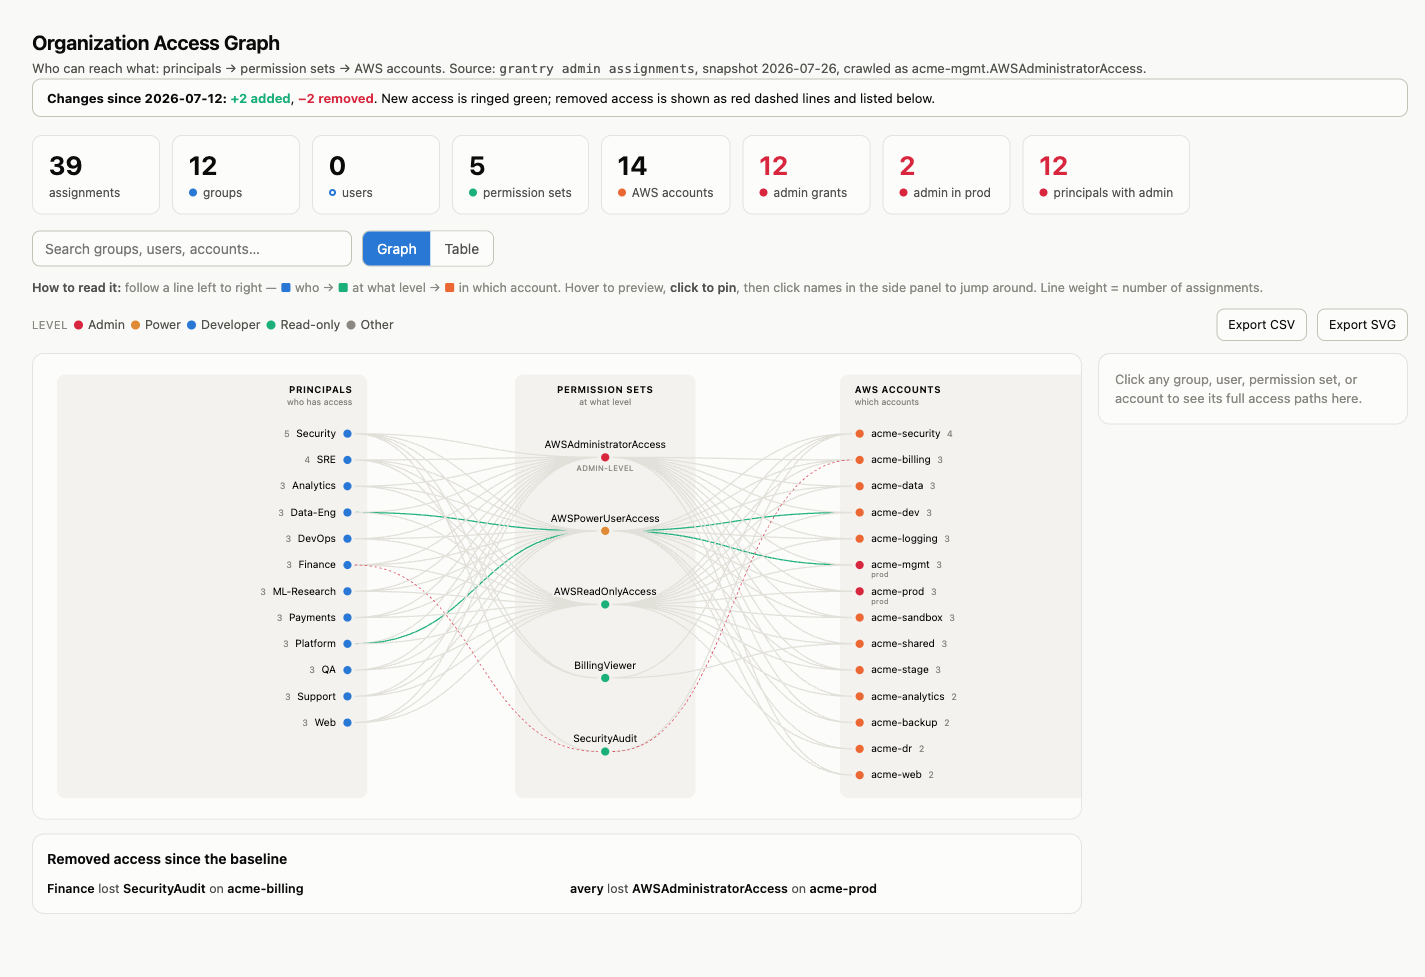
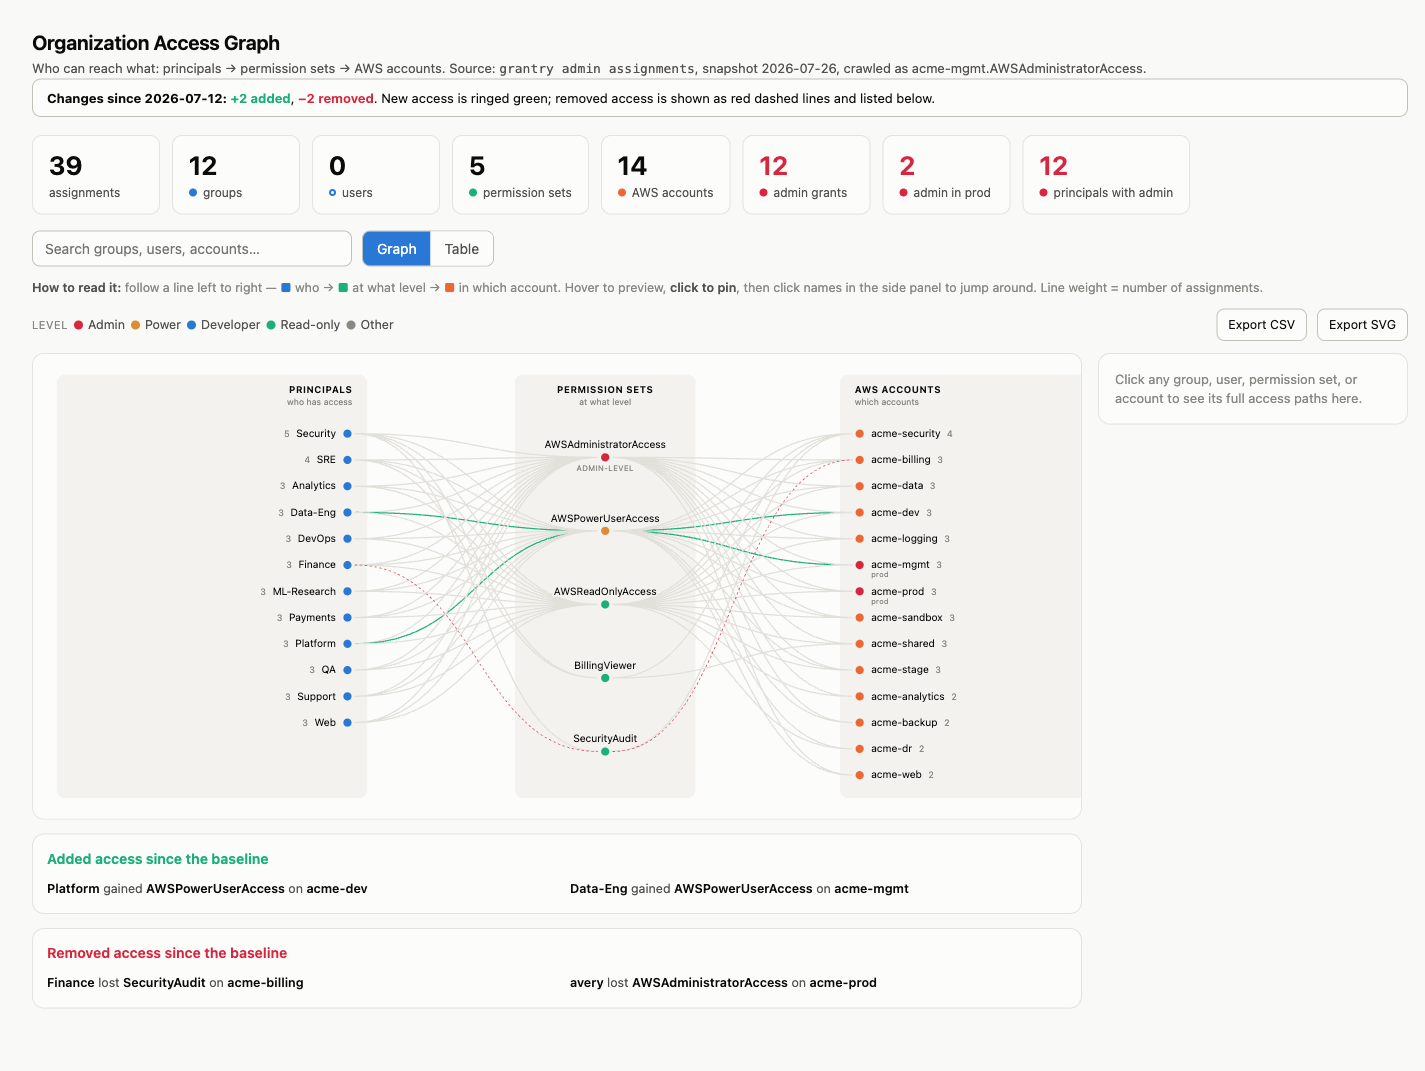
fix: list every added assignment in the access-graph diff
The graph can only ring a wholly-new principal/permission-set/account green, so
a new grant that lands on nodes that already existed was counted in the banner
but shown nowhere. Add an 'Added access' list mirroring 'Removed access', so no
change is missed. Add a CLI test that renders admin assignments --visualize
--diff end to end and asserts the added tag, removed list, and new baseline.

diff --git a/src/grantry/assignments_graph_template.html b/src/grantry/assignments_graph_template.html
@@ -193,11 +193,13 @@
     background: var(--surface-1); border: 1px solid var(--baseline); font-size: 13px; color: var(--ink-1); }
   #diffbanner .add { color: #1baf7a; font-weight: 650; }
   #diffbanner .rem { color: #d7263d; font-weight: 650; }
-  #removedcard { display: none; margin-top: 14px; }
-  #removedcard h2 { font-size: 14px; font-weight: 650; margin: 0 0 8px; }
-  #removedcard ul { list-style: none; padding: 0; margin: 0; columns: 2; column-gap: 26px; }
-  #removedcard li { font-size: 12.5px; padding: 2px 0; color: var(--ink-2); break-inside: avoid; overflow-wrap: anywhere; }
-  #removedcard li b { color: var(--ink-1); font-weight: 600; }
+  .diffcard { display: none; margin-top: 14px; }
+  .diffcard h2 { font-size: 14px; font-weight: 650; margin: 0 0 8px; }
+  .diffcard ul { list-style: none; padding: 0; margin: 0; columns: 2; column-gap: 26px; }
+  .diffcard li { font-size: 12.5px; padding: 2px 0; color: var(--ink-2); break-inside: avoid; overflow-wrap: anywhere; }
+  .diffcard li b { color: var(--ink-1); font-weight: 600; }
+  .diffcard.added h2 { color: #1baf7a; }
+  .diffcard.removed h2 { color: #d7263d; }
 
   /* --- enhancement toolbar: filters, export, theme --- */
   .toolbar { display: flex; gap: 8px 10px; align-items: center; margin: 0 0 12px; flex-wrap: wrap; }
@@ -259,7 +261,11 @@
       </table>
       <p class="count-note" id="tcount"></p>
     </div>
-    <div class="card" id="removedcard">
+    <div class="card diffcard added" id="addedcard">
+      <h2>Added access since the baseline</h2>
+      <ul id="addedlist"></ul>
+    </div>
+    <div class="card diffcard removed" id="removedcard">
       <h2>Removed access since the baseline</h2>
       <ul id="removedlist"></ul>
     </div>
@@ -929,17 +935,22 @@ if (DIFF) {
     + 'New access is ringed green; removed access is shown as red dashed lines' + ghostNote + '.';
   document.getElementById("diffsince").textContent = DIFF.since;
   banner.style.display = "block";
-  if (REMOVED.length) {
-    const list = document.getElementById("removedlist");
-    const bold = t => { const b = document.createElement("b"); b.textContent = t; return b; };
-    for (const r of REMOVED) {
+  const bold = t => { const b = document.createElement("b"); b.textContent = t; return b; };
+  const fillList = (rows, ulId, cardId, verb) => {
+    if (!rows.length) return;
+    const list = document.getElementById(ulId);
+    for (const r of rows) {
       const li = document.createElement("li");
-      li.append(bold(r[1]), document.createTextNode(" lost "), bold(r[2]),
+      li.append(bold(r[1]), document.createTextNode(` ${verb} `), bold(r[2]),
                 document.createTextNode(" on "), bold(r[4]));
       list.append(li);
     }
-    document.getElementById("removedcard").style.display = "block";
-  }
+    document.getElementById(cardId).style.display = "block";
+  };
+  // Every added assignment is listed here (the graph can only ring wholly-new
+  // nodes green, so a new grant on an existing node would otherwise be invisible).
+  fillList(DATA.filter(r => r[6] === "added"), "addedlist", "addedcard", "gained");
+  fillList(REMOVED, "removedlist", "removedcard", "lost");
 }
 
 // ---- enrichment: crawl provenance, group members, permission-set details, OU ----

diff --git a/tests/test_cli.py b/tests/test_cli.py
@@ -384,6 +384,47 @@ def test_unknown_identity_error_points_to_ls(tmp_path, monkeypatch, capsys):
     assert "grantry ls" in out
 
 
+def test_admin_visualize_diff_renders_change_on_graph(tmp_path, monkeypatch, capsys):
+    import grantry.admin as admin_mod
+    from grantry.admin import Assignment
+    from grantry.cli import _cmd_admin_assignments
+    from grantry.snapshots import latest_snapshot_name, save_snapshot
+
+    b = _fake_broker(tmp_path, monkeypatch)
+
+    # Baseline snapshot, then a current crawl that adds one grant and drops another.
+    save_snapshot(
+        [
+            Assignment("GROUP", "g1", "Platform", "AWSReadOnlyAccess", "111", "acme-dev", ""),
+            Assignment("GROUP", "g2", "Legacy", "AWSAdministratorAccess", "222", "acme-old", ""),
+        ],
+        "2026-07-01T00-00-00Z",
+    )
+    current = [
+        Assignment("GROUP", "g1", "Platform", "AWSReadOnlyAccess", "111", "acme-dev", ""),
+        Assignment("GROUP", "g3", "DataTeam", "AWSPowerUserAccess", "333", "acme-new", ""),
+    ]
+    monkeypatch.setattr(
+        admin_mod, "crawl_assignments", lambda make_client, on_progress=None: current
+    )
+    monkeypatch.setattr(admin_mod, "crawl_enrichment", lambda make_client, assignments: None)
+
+    out = tmp_path / "graph.html"
+    rc = _cmd_admin_assignments(
+        b, "us-east-1", "prod.ReadOnlyAccess", "1h", visualize=True, out=str(out), diff=True
+    )
+    assert rc == 0
+    html = out.read_text()
+    assert "const DIFF = {" in html  # diff overlay injected, not the null default
+    assert '"added":1' in html and '"removed":1' in html
+    assert '"since":"2026-07-01"' in html
+    # DataTeam's new grant is tagged "added" in DATA (guards the tag, not just presence);
+    # Legacy's lost grant is carried into REMOVED.
+    assert '"DataTeam","AWSPowerUserAccess","333","acme-new","","added"' in html
+    assert "Legacy" in html
+    assert latest_snapshot_name() != "2026-07-01T00-00-00Z"  # this crawl saved as the new baseline
+
+
 def test_completion_infers_shell_from_env(monkeypatch, capsys):
     monkeypatch.setenv("SHELL", "/bin/zsh")
     rc = main(["completion"])

diff --git a/src/grantry/__init__.py b/src/grantry/__init__.py
@@ -1,3 +1,3 @@
 """grantry: a local credential broker for humans and AI agents."""
 
-__version__ = "0.16.1"
+__version__ = "0.16.2"

diff --git a/CHANGELOG.md b/CHANGELOG.md
@@ -4,6 +4,19 @@ All notable changes to grantry are recorded here. The format follows
 [Keep a Changelog](https://keepachangelog.com/en/1.1.0/), and grantry uses
 [semantic versioning](https://semver.org/).
 
+## [0.16.2] - 2026-07-26
+
+### Fixed
+- The access-graph diff now lists **every added assignment** in an "Added access"
+  card, mirroring the "Removed access" one. Before, a new grant landing on a
+  principal, permission set, and account that all already existed was counted in
+  the banner but not shown anywhere on the page (only wholly-new nodes ring
+  green). Now nothing added is missed.
+
+### Added
+- A CLI test covering `admin assignments --visualize --diff` end to end (the diff
+  overlay is rendered and the crawl is saved as the new baseline).
+
 ## [0.16.1] - 2026-07-26
 
 ### Added

diff --git a/README.md b/README.md
@@ -307,8 +307,9 @@ The graph is built for an access review, not just a picture:
 Use `--snapshot` to save a crawl and `--diff` to see what changed since the last
 one. Add `--visualize --diff` to render the change **on the graph**: newly added
 access is ringed green, removed access is drawn as red dashed lines between the
-nodes that remain, and a banner plus a "Removed access" list summarize what
-changed since the baseline.
+nodes that remain, and a banner plus "Added access" and "Removed access" lists
+spell out every change since the baseline (so a new grant on a node that already
+existed is never missed).
 
 ![Access graph snapshot diff](docs/access-graph-diff.png)
 
